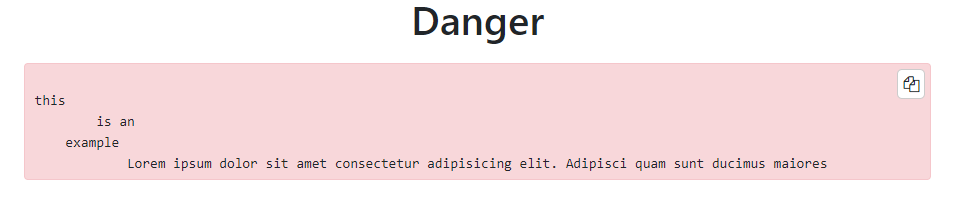
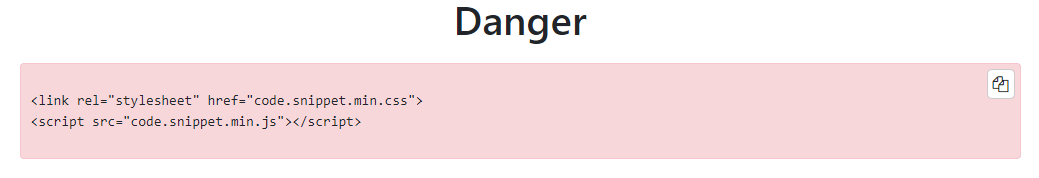
Minor changes

Changed region(s): [[0.0, 0.2809, 0.9969, 0.8989], [0.1246, 0.7584, 0.8723, 0.8146], [0.405, 0.0281, 0.5919, 0.2528]]

diff --git a/example.html b/example.html
@@ -12,7 +12,7 @@
     <!---->
 
     <!-- NECESSARY -->
-    <link rel="stylesheet" href="https://cdnjs.cloudflare.com/ajax/libs/font-awesome/4.7.0/css/font-awesome.css" integrity="sha512-5A8nwdMOWrSz20fDsjczgUidUBR8liPYU+WymTZP1lmY9G6Oc7HlZv156XqnsgNUzTyMefFTcsFH/tnJE/+xBg==" crossorigin="anonymous" />
+    <link rel="stylesheet" href="https://cdnjs.cloudflare.com/ajax/libs/font-awesome/4.7.0/css/font-awesome.min.css" crossorigin="anonymous" />
     <script src="https://code.jquery.com/jquery-1.12.4.min.js" integrity="sha256-ZosEbRLbNQzLpnKIkEdrPv7lOy9C27hHQ+Xp8a4MxAQ=" crossorigin="anonymous"></script>
     <link rel="stylesheet" href="code.snippet.css">
     <script src="code.snippet.js"></script>
@@ -25,12 +25,10 @@
 <body>
     <h1>Example</h1>
     <div class="html-code-snippet">
-        <span class="copy" title="Copy to clipboard!"><i class="fa fa-files-o"></i></span>
+        <span class="copy" title="Copy to clipboard!"></span>
         <ccode>
-this
-        is an
-    example
-            Lorem ipsum dolor sit amet consectetur adipisicing elit. Adipisci quam sunt ducimus maiores, eos nesciunt ipsam sequi ipsa porro aspernatur nisi voluptatibus delectus, libero itaque dolores? Libero non animi amet vero quia suscipit nisi possimus ex distinctio soluta repudiandae sequi aperiam quasi error earum, eveniet laudantium nobis laboriosam similique quo harum ullam impedit id consectetur. Quibusdam magni possimus eligendi nostrum, vero pariatur earum esse autem eius, consequuntur excepturi recusandae quam officia. Minus, officiis doloremque! Tempore dolore facilis dicta minus. Dolor quisquam ratione rerum assumenda voluptatum consequatur, distinctio ad cumque fuga praesentium iure labore nemo porro molestias autem necessitatibus natus vitae?
+&lt;link rel="stylesheet" href="code.snippet.min.css"&gt;
+&lt;script src="code.snippet.min.js"&gt;&lt;/script&gt;
         </ccode>
     </div>
 </body>

diff --git a/minified/code.snippet.min.css b/minified/code.snippet.min.css
@@ -3,4 +3,4 @@
  * code.snippet.min.css
  * Copyright (c) 2021 [Carlos](https://github.com/csegundo/CodeSnippet)
  */
-.html-code-snippet{margin:1rem 15%;border:1px solid #d6d8db;border-radius:4px;background-color:#e2e3e5;position:relative;padding:5px 10px}.html-code-snippet.success{background-color:#d4edda;border-color:#c3e6cb}.html-code-snippet.warning{background-color:#fff3cd;border-color:#ffeeba}.html-code-snippet.danger{background-color:#f8d7da;border-color:#f5c6cb}.html-code-snippet .copy{position:absolute;top:5px;right:5px;z-index:10;background-color:#fff;cursor:pointer;padding:2px 5px;border:1px solid #ccc;border-radius:5px}.html-code-snippet ccode{display:block;overflow-x:auto;font-size:87.5%;white-space:pre;font-family:SFMono-Regular,Menlo,Monaco,Consolas,"Liberation Mono","Courier New",monospace}
+.html-code-snippet{margin:1rem 15%;border:1px solid #d6d8db;border-radius:4px;background-color:#e2e3e5;position:relative;padding:5px 10px}.html-code-snippet.success{background-color:#d4edda;border-color:#c3e6cb}.html-code-snippet.warning{background-color:#fff3cd;border-color:#ffeeba}.html-code-snippet.danger{background-color:#f8d7da;border-color:#f5c6cb}.html-code-snippet .copy{position:absolute;top:5px;right:5px;z-index:10;background-color:#fff;cursor:pointer;padding:2px 5px;border:1px solid #ccc;border-radius:5px}.html-code-snippet .copy::before{font-family:FontAwesome;content:"\f0c5"}.html-code-snippet ccode{display:block;overflow-x:auto;font-size:87.5%;white-space:pre;font-family:SFMono-Regular,Menlo,Monaco,Consolas,"Liberation Mono","Courier New",monospace}

diff --git a/minified/code.snippet.min.js b/minified/code.snippet.min.js
@@ -3,4 +3,4 @@
  * code.snippet.min.js
  * Copyright (c) 2021 [Carlos](https://github.com/csegundo/CodeSnippet)
  */
- $(function(){$(".html-code-snippet").on("click",".copy",function(){var c=$("<input>");$("body").append(c),c.val($(".html-code-snippet ccode").html().trim()).select(),document.execCommand("copy"),c.remove()})});
+ $(function(){$(".html-code-snippet").on("click",".copy",function(){var e=$("<textarea></textarea>");$("body").append(e),e.html($(".html-code-snippet ccode").html().trim()).select(),document.execCommand("copy"),e.remove()})});

diff --git a/code.snippet.js b/code.snippet.js
@@ -7,9 +7,9 @@
 $(function(){
     // Paste this code into your page
     $('.html-code-snippet').on('click', '.copy', function(){
-        var $temp = $('<input>');
+        var $temp = $('<textarea></textarea>');
         $('body').append($temp);
-        $temp.val($('.html-code-snippet ccode').html().trim()).select();
+        $temp.html($('.html-code-snippet ccode').html().trim()).select();
         document.execCommand("copy");
         $temp.remove();
     });

diff --git a/code.snippet.css b/code.snippet.css
@@ -37,6 +37,10 @@
     border: 1px solid #ccc;
     border-radius: 5px;
 }
+.html-code-snippet .copy::before{
+    font-family: 'FontAwesome';
+    content: "\f0c5";
+}
 
 .html-code-snippet ccode{
     display: block;

diff --git a/README.md b/README.md
@@ -4,13 +4,23 @@ Pequeña libreria para insertar fragmentos de código en cualquier parte de tu p
 _Small library to insert code snippets anywhere on your HTML page. All you need is jQuery (see version in Requirements) for correct operation._
 
 ## Requirements ⚙
+Requisitos necesarios para el correcto funcionamiento. Tu página debe disponer de los siguientes elementos.
+
+_Necessary requirements for proper operation. Your page must have the following elements._
+
+* [jQuery](https://code.jquery.com/) - Download link
+* [FontAwesome](https://fontawesome.com/v4.7.0/get-started/) - Download link
+* [CSS](https://github.com/csegundo/CodeSnippet/blob/main/minified/code.snippet.min.css) - CSS CodeSnippet
+* [JS](https://github.com/csegundo/CodeSnippet/blob/main/minified/code.snippet.min.js) - JS CodeSnippet
+
+
 A continuación se muestra una tabla de contenidos con las versiones mínimas de los navegadores en los que se pueden insertar estos bloques o fragmentos de código.
 
 _Below is a table of contents with the minimum versions of the browsers in which these blocks or code snippets can be inserted._
 
 |                 | jQuery  | FontAwesome | Chrome | Firefox  | Opera | Safari | IE | Edge |
 |-----------------|---------|-------------|--------|----------|-------|--------|----|------|
-| Minimum version | v1.12.4 | v4.7.0      |        |          |       |        |    |      |
+| Minimum version | v1.12.4 | v4.7.0      | 4      | 3.5      | 10    | 3.1    | 9  | 12   |
 
 ## How to embed 🔧
 Lo primero de todo tendrás que incluir tanto el JS como el CSS de _CodeSnippet_ en tu página HTML.
@@ -35,7 +45,7 @@ _To insert a code snippet, you just have to include the skeleton shown below:_
 
 ```
 <div class="html-code-snippet">
-    <span class="copy" title="Copy to clipboard!"><i class="fa fa-files-o"></i></span>
+    <span class="copy"></span>
     <ccode>
         your code snippet here
     </ccode>
@@ -48,7 +58,7 @@ _You can also create alter the styles for different occasions, warning of good c
 
 ```
 <div class="html-code-snippet [success|warning|danger]">
-    <span class="copy" title="Copy to clipboard!"><i class="fa fa-files-o"></i></span>
+    <span class="copy"></span>
     <ccode>
         your code snippet here
     </ccode>
@@ -67,7 +77,7 @@ _You can also create alter the styles for different occasions, warning of good c
 ## Status and version 🚀
 Status: _unfinished_.
 
-Version: _v1.1.0_
+Version: _v1.1.1_
 
 
 ---
